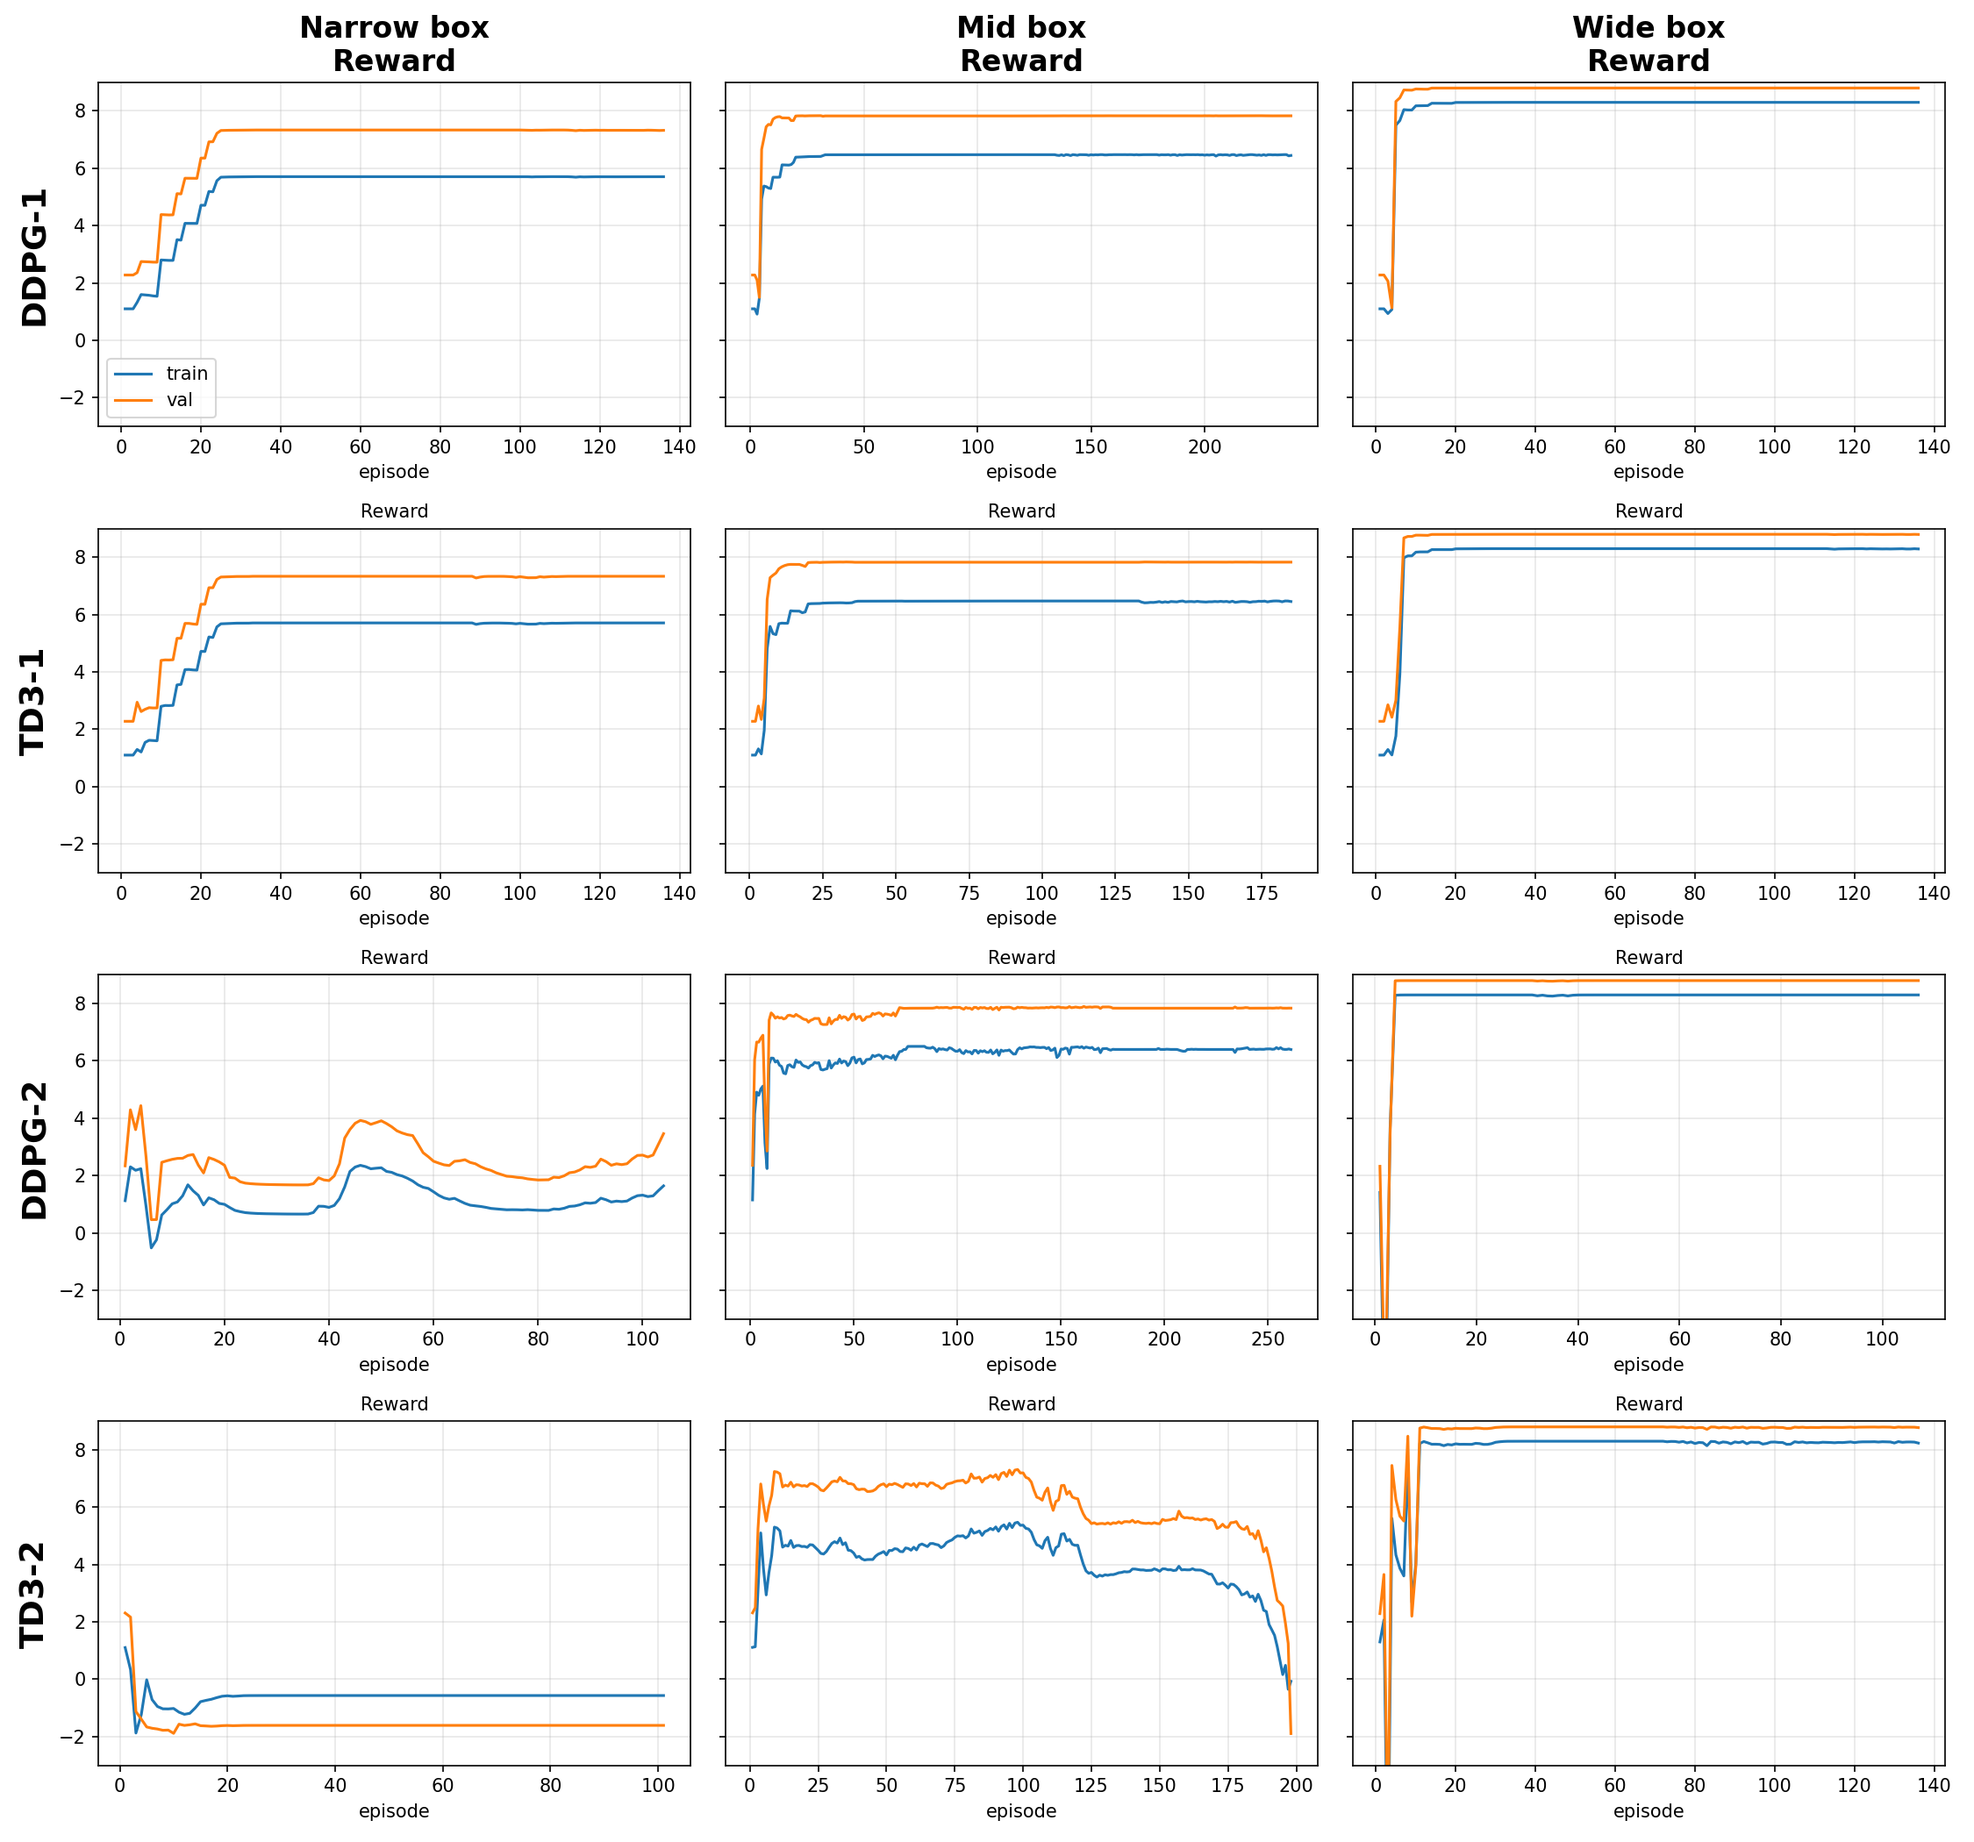
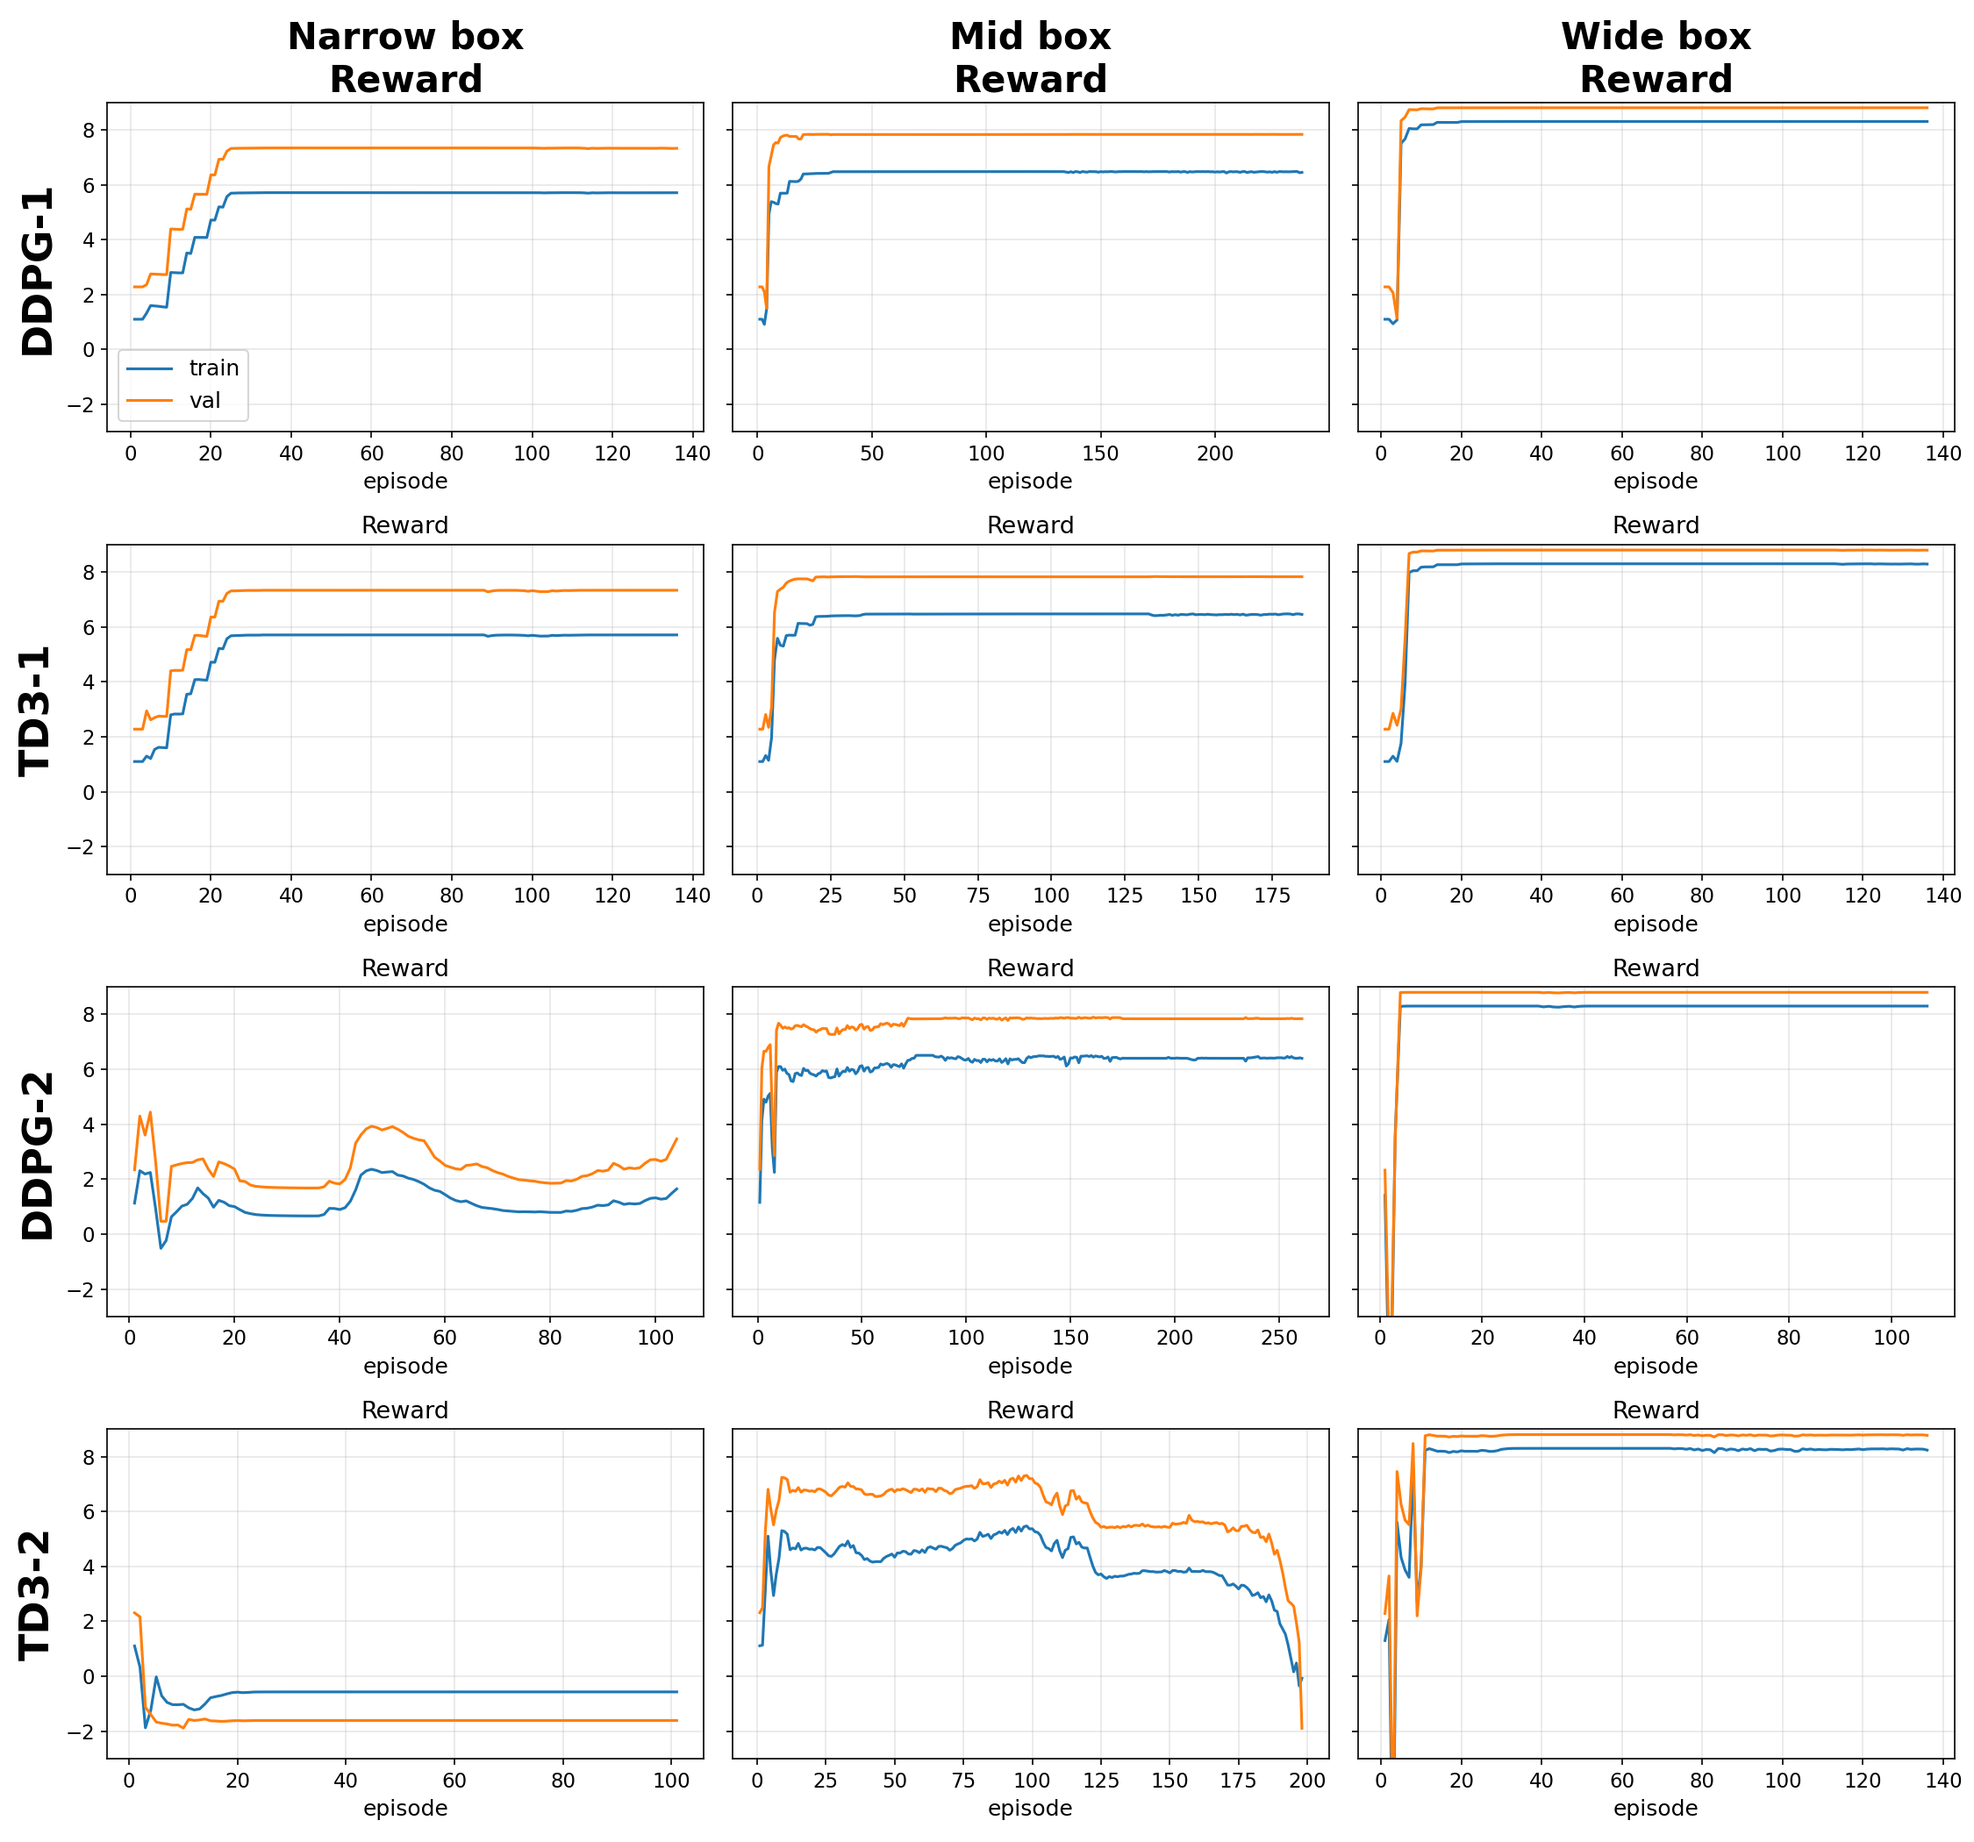
fix(charts): enlarge label/legend text in report Figures 2, 3, and 4
- _reward_grid_figure.py: bump title/ylabel/xlabel/tick/legend font sizes
  for the Phase 4 reward-curve grid (report Figure 3).
- generate_seed13_tout_grid.py: same treatment for the seed-13 T_out
  generalisation grid (report Figure 4).
- generate_fourway_per_day.py (new): reconstructs the per-day, 30-seed
  zero-shot MAE bar chart (report Figure 2), which previously had no
  generating script in the repo. Built from the exact mean+/-std values
  already verified in the report's own Appendix A.3 tables, not a re-run
  of the rollouts.

Regenerated chart outputs included for reference; the report images
themselves are copied into the Report repo separately.

diff --git a/BC vs CQL Comparison/multiseed/generate_fourway_per_day.py b/BC vs CQL Comparison/multiseed/generate_fourway_per_day.py
@@ -1,0 +1,76 @@
+"""Reconstruct the report's Figure 2 (fourway_multiseed_per_day.png).
+
+The original chart had no generating script in the repo -- it was assembled
+by hand outside version control. This script rebuilds it from the exact
+per-day, 30-seed mean +/- std values already verified and reported in the
+paper's own Appendix A.3 tables (sourcecode/09_supplementary_information.tex:
+tab:multiseed-bcreg-per-seed, tab:multiseed-bccirl-per-seed,
+tab:multiseed-cqlreg-per-seed, tab:multiseed-per-seed), so no rollout re-run
+is needed -- only re-plotting with larger label/legend text.
+
+Run from this folder: python generate_fourway_per_day.py
+"""
+import os
+
+import matplotlib.pyplot as plt
+import numpy as np
+
+DAYS = ["16 June", "17 June", "18 June", "19 June"]
+
+# mean +/- std over 30 seeds, per day, transcribed from the report's own
+# Appendix A.3 tables (values already verified in-session against the
+# underlying rollout data).
+MEAN = {
+    "BC Regular":  [1.510, 1.953, 2.063, 0.817],
+    "BC CIRL":     [1.286, 1.482, 1.796, 0.331],
+    "CQL Regular": [1.354, 1.553, 1.760, 0.807],
+    "CQL CIRL":    [0.320, 0.334, 0.457, 0.058],
+}
+STD = {
+    "BC Regular":  [0.358, 0.482, 0.454, 0.430],
+    "BC CIRL":     [0.000, 0.000, 0.000, 0.000],
+    "CQL Regular": [0.537, 0.797, 0.855, 0.386],
+    "CQL CIRL":    [0.008, 0.009, 0.012, 0.002],
+}
+EXPERT = [1.286, 1.482, 1.796, 0.331]
+
+ORDER = ["BC Regular", "BC CIRL", "CQL Regular", "CQL CIRL"]
+COLORS = {
+    "BC Regular":  "#8fd18f",
+    "BC CIRL":     "#2ca02c",
+    "CQL Regular": "#f4a582",
+    "CQL CIRL":    "#d62728",
+}
+
+x = np.arange(len(DAYS))
+n_bars = len(ORDER) + 1  # + Expert PI
+width = 0.8 / n_bars
+
+fig, ax = plt.subplots(figsize=(11, 6.5))
+
+# Expert PI first (leftmost of each group)
+ax.bar(x - 0.4 + width * 0.5, EXPERT, width, label="Expert PI",
+       color="#888888", alpha=0.85)
+
+for i, name in enumerate(ORDER, start=1):
+    ax.bar(x - 0.4 + width * (i + 0.5), MEAN[name], width,
+           yerr=STD[name], capsize=4, label=name,
+           color=COLORS[name], alpha=0.9)
+
+ax.set_xticks(x)
+ax.set_xticklabels(DAYS, fontsize=14)
+ax.set_ylabel("Zero-shot MAE (C)", fontsize=16)
+ax.set_title("Zero-shot MAE per unseen day, 30 seeds (mean +/- std),\n"
+             "all four offline controllers vs. Expert PI", fontsize=17, fontweight="bold")
+ax.tick_params(axis="both", labelsize=13)
+ax.grid(axis="y", alpha=0.3)
+ax.legend(fontsize=13, ncol=3, loc="upper center", bbox_to_anchor=(0.5, -0.12))
+
+fig.tight_layout()
+
+out_dir = os.path.join(os.path.dirname(os.path.abspath(__file__)), "charts")
+os.makedirs(out_dir, exist_ok=True)
+out_path = os.path.join(out_dir, "fourway_multiseed_per_day.png")
+fig.savefig(out_path, dpi=150, bbox_inches="tight")
+print(f"saved -> {out_path}")
+plt.close(fig)

diff --git a/Online ActorCritic Finetune/generate_seed13_tout_grid.py b/Online ActorCritic Finetune/generate_seed13_tout_grid.py
@@ -96,14 +96,15 @@ for row, (box, ax) in enumerate(zip(['Narrow', 'Mid', 'Wide'], axes)):
         mae_p, _ = mae_rmse(Ts[tag][:n], tref_r)
         ax.plot(t, Ts[tag][:n], color=COLORS[tag], lw=1.0, label=f'{tag}  MAE={mae_p:.3f}')
     ax.set_ylim(45, 95)
-    ax.set_ylabel('T_out (C)')
-    ax.set_xlabel('Time (s)')
+    ax.set_ylabel('T_out (C)', fontsize=14)
+    ax.set_xlabel('Time (s)', fontsize=14)
     ax.grid(alpha=0.3)
-    ax.legend(fontsize=8, ncol=2)
-    ax.set_title(f'{box} box (seed={SEED})')
+    ax.tick_params(axis='both', labelsize=12)
+    ax.legend(fontsize=11, ncol=2)
+    ax.set_title(f'{box} box (seed={SEED})', fontsize=16, fontweight='bold')
     print(f"[{box}] done: n={n} steps")
 
-fig.suptitle(f'Zero-shot generalisation, stream seed {SEED}: T_out tracking')
+fig.suptitle(f'Zero-shot generalisation, stream seed {SEED}: T_out tracking', fontsize=16)
 fig.tight_layout()
 
 out_dir = os.path.join(CHART_DIR, 'randstream_multiseed')

diff --git a/Online ActorCritic Finetune/_reward_grid_figure.py b/Online ActorCritic Finetune/_reward_grid_figure.py
@@ -16,14 +16,15 @@ for j, box in enumerate(BOXES):
         a.plot(df.ep, df.train_reward, label='train')
         a.plot(df.ep, df.val_reward, label='val')
         a.set_title(f'{BOX_TITLES[box]}\nReward' if i == 0 else 'Reward',
-                    fontsize=16 if i == 0 else 10, fontweight='bold' if i == 0 else 'normal')
-        a.set_xlabel('episode')
+                    fontsize=20 if i == 0 else 13, fontweight='bold' if i == 0 else 'normal')
+        a.set_xlabel('episode', fontsize=12)
         a.set_ylim(*YLIM)
         a.grid(alpha=.3)
+        a.tick_params(axis='both', labelsize=11)
         if j == 0:
-            a.set_ylabel(label, fontsize=18, fontweight='bold')
+            a.set_ylabel(label, fontsize=22, fontweight='bold')
         if i == 0 and j == 0:
-            a.legend()
+            a.legend(fontsize=12)
 
 fig.tight_layout()
 fig.savefig('charts/gainbox_reward_grid.png', dpi=150)
